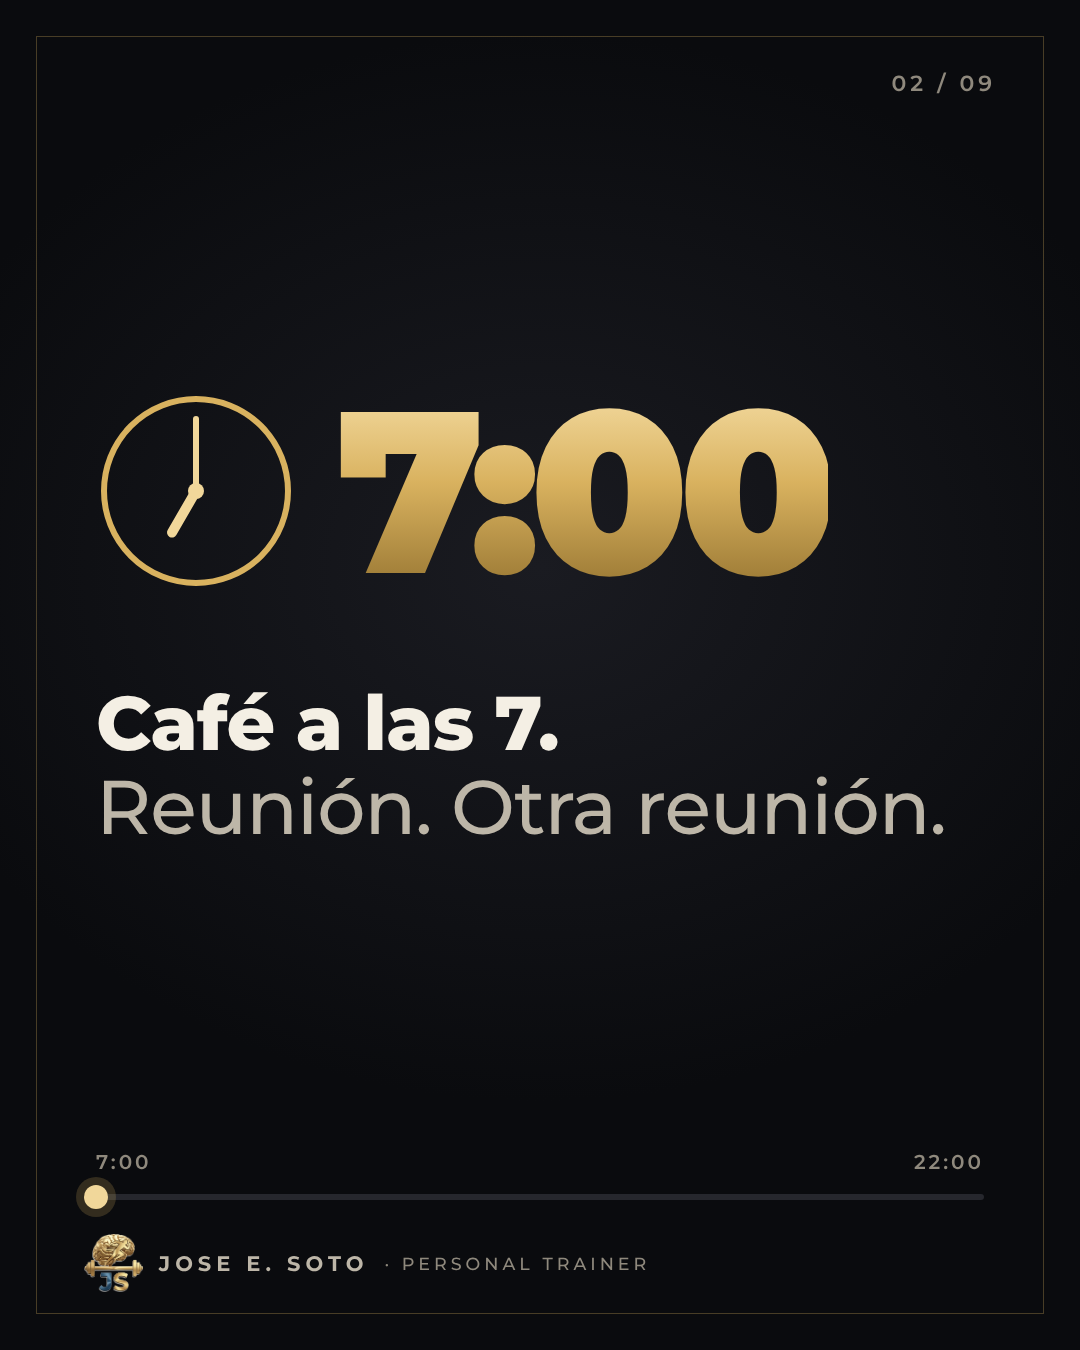
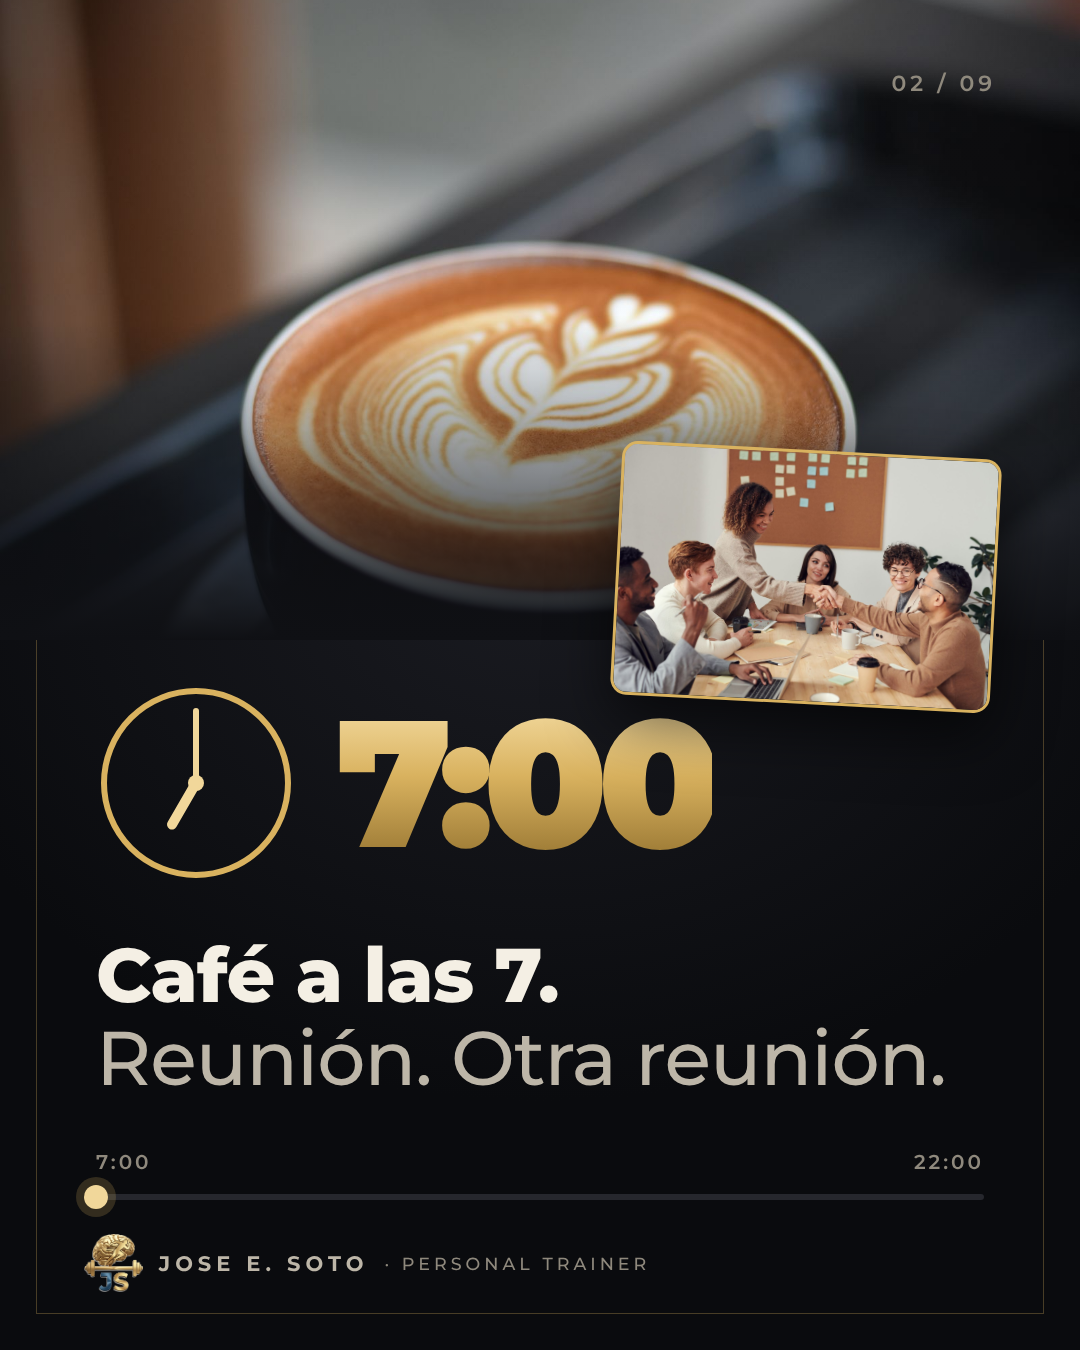
22hs carousel: add coffee, meeting and lunch stock photos
Claude-Session: https://claude.ai/code/session_01L6TZZ3GjoWo8AeE4kpa61Z

diff --git a/carrusel-22hs/src/carrusel.html b/carrusel-22hs/src/carrusel.html
@@ -49,7 +49,7 @@
   .rule{width:110px;height:5px;background:var(--gold);margin:56px 0}
   .light .rule{background:var(--cream-gold)}
 
-  .item{display:flex;gap:34px;align-items:flex-start;padding:38px 0;border-bottom:2px solid rgba(154,116,37,.22)}
+  .item{display:flex;gap:34px;align-items:flex-start;padding:24px 0;border-bottom:2px solid rgba(154,116,37,.22)}
   .item:last-child{border-bottom:none}
   .item .n{flex:none;width:96px;height:96px;border-radius:50%;background:var(--cream-ink);color:var(--gold-l);
            display:flex;align-items:center;justify-content:center;font-weight:900;font-size:48px}
@@ -60,6 +60,18 @@
   .pill{display:inline-block;background:linear-gradient(180deg,var(--gold-l),var(--gold));color:#141414;border-radius:999px;
         padding:26px 60px;font-weight:900;font-size:42px;letter-spacing:2px;margin-top:50px;box-shadow:0 18px 50px rgba(217,178,95,.25)}
   .center{align-items:center;justify-content:center;text-align:center}
+  .topphoto{position:absolute;left:0;right:0;top:0;height:640px;overflow:hidden}
+  .topphoto img{width:100%;height:100%;object-fit:cover}
+  .topphoto::after{content:"";position:absolute;inset:0;background:linear-gradient(180deg,rgba(10,11,14,.1) 0%,rgba(10,11,14,0) 50%,#0f1014 100%)}
+  .inset{position:absolute;right:84px;top:450px;width:380px;height:254px;border-radius:16px;overflow:hidden;
+         border:3px solid var(--gold);box-shadow:0 24px 60px rgba(0,0,0,.6);transform:rotate(3deg);z-index:2}
+  .inset img{width:100%;height:100%;object-fit:cover}
+  .photoslide{justify-content:flex-end !important;padding-bottom:250px !important}
+  .photoslide .clockrow,.photoslide .phrase{position:relative;z-index:1}
+  .photoslide .hour{font-size:180px}
+  .photoslide .phrase{margin-top:50px}
+  .band{height:330px;margin:-30px 0 34px;border-radius:18px;overflow:hidden}
+  .band img{width:100%;height:100%;object-fit:cover}
 </style>
 </head>
 <body>
@@ -98,6 +110,7 @@
 <!-- 7 · LO QUE ARMO (claro) -->
 <section class="slide light" style="justify-content:center">
   <div class="num">07 / 09</div>
+  <div class="band"><img src="fotos/almuerzo.jpg" style="object-position:50% 55%"></div>
   <div class="kicker" style="letter-spacing:4px;font-size:25px">Lo que armo con cada persona que acompaño</div>
   <div class="item"><div class="n">1</div><div><h3>Un desayuno que <span>no depende de tener tiempo.</span></h3><p>Queda listo la noche anterior.</p></div></div>
   <div class="item"><div class="n">2</div><div><h3>Un almuerzo <span>decidido el domingo.</span></h3><p>No improvisado a las 14.</p></div></div>
@@ -127,19 +140,21 @@
 <script>
 // Slides 2 a 5: la hora avanza como un reloj y en una línea de 7 a 22.
 const T = [
-  ["7:00", 7, 0,  "Café a las 7.<br><span class='soft'>Reunión. Otra reunión.</span>"],
+  ["7:00", 7, 0,  "Café a las 7.<br><span class='soft'>Reunión. Otra reunión.</span>", "fotos/cafe.jpg", "fotos/reunion.jpg"],
   ["16:00",16, 0, "Algo del kiosco<br>a las 16."],
   ["20:30",20,30, "Llegás a tu casa<br><span class='soft'>sin haber comido en serio en todo el día.</span>"],
   ["22:00",22, 0, "Abrís la heladera<br><span class='soft'>\"para picar algo\".</span><br><span class='gold'>Y la culpa se la lleva<br>la noche.</span>"],
 ];
 const host = document.getElementById('clock');
-T.forEach(([label,h,m,txt],i)=>{
+T.forEach(([label,h,m,txt,photo,inset],i)=>{
   const hourA = ((h%12)+m/60)*30, minA = m*6;
   const hand = (a,len)=>{const r=(a-90)*Math.PI/180;return `x2="${50+len*Math.cos(r)}" y2="${50+len*Math.sin(r)}"`};
   const pct = ((h+m/60)-7)/(22-7)*100;
   host.insertAdjacentHTML('beforebegin',`
-  <section class="slide" style="justify-content:center;padding-bottom:240px">
-    <div class="num">${String(i+2).padStart(2,'0')} / 09</div>
+  <section class="slide ${photo ? 'photoslide' : ''}" style="justify-content:center;padding-bottom:240px">
+    ${photo ? `<div class="topphoto"><img src="${photo}" style="object-position:50% 45%"></div>` : ''}
+    ${inset ? `<div class="inset"><img src="${inset}"></div>` : ''}
+    <div class="num" style="z-index:3">${String(i+2).padStart(2,'0')} / 09</div>
     <div class="clockrow">
       <svg width="200" height="200" viewBox="0 0 100 100">
         <circle cx="50" cy="50" r="46" fill="none" stroke="#d9b25f" stroke-width="3"/>

diff --git a/carrusel-22hs/CAPTION.md b/carrusel-22hs/CAPTION.md
@@ -23,3 +23,10 @@ No es una dieta. Es un horario. Y el horario se planifica.
 👉 Si querés que armemos juntos tu horario de comidas y entrenamiento, escribime "HORARIO" por mensaje. Te respondo personalmente.
 
 #personaltrainer #entrenamientopersonal #habitos #alimentacionconsciente #organizacion #vidasaludable #josesotopersonaltrainer
+
+## Fotos
+
+Fotos de stock de Pexels (licencia Pexels: uso gratuito, comercial incluido, sin atribución obligatoria):
+- `src/fotos/cafe.jpg`: pexels.com/photo/312418
+- `src/fotos/reunion.jpg`: pexels.com/photo/3184291
+- `src/fotos/almuerzo.jpg`: pexels.com/photo/1640777
